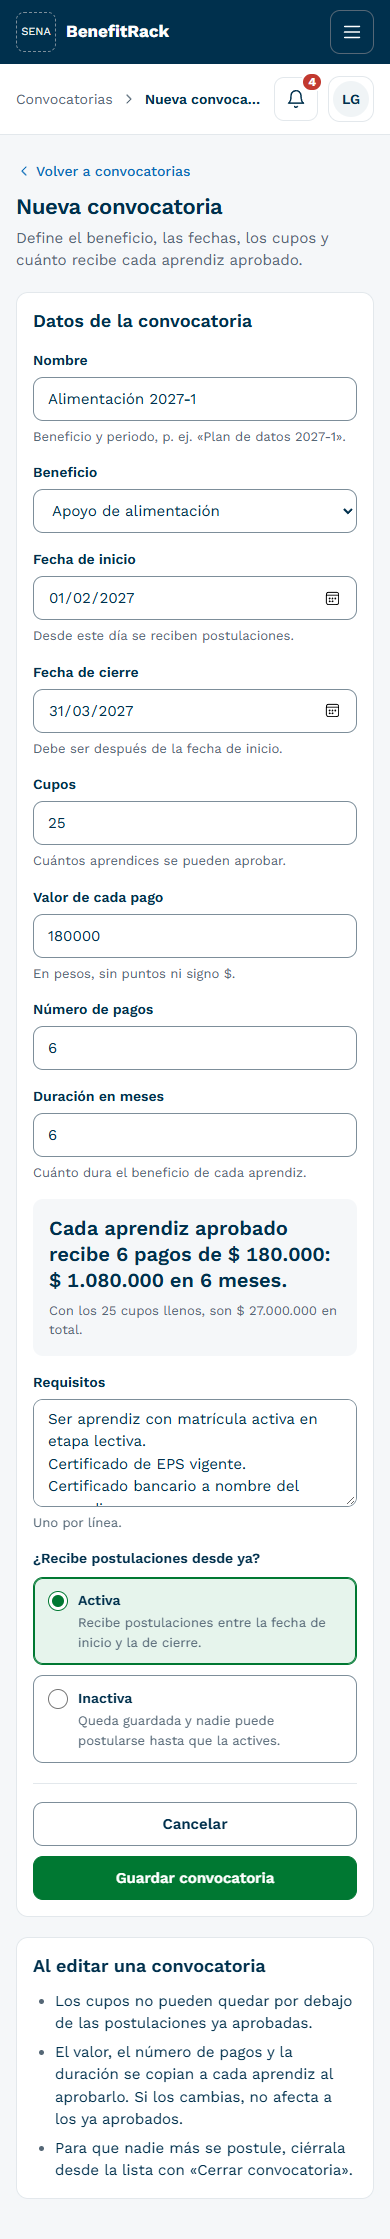
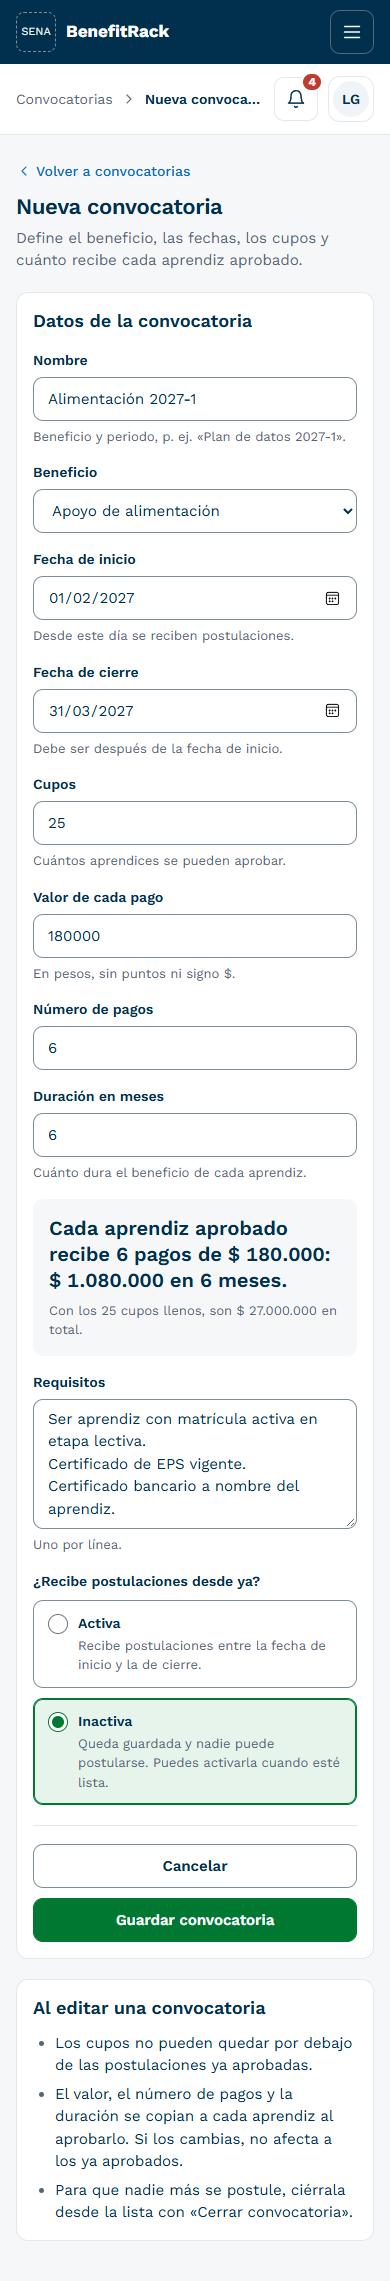
fix: 07-convocatorias marca «Inactiva» como estado inicial (DEFAULT de la base)
Decisión de Samuel. La ayuda de «Inactiva» dice que se puede activar cuando esté
lista. Prueba nueva: Inactiva marcada y Activa no. Requisitos con 5 renglones
para que no se corte el texto en el celular.

diff --git a/vistas/07-convocatorias/html/crear-editar.html b/vistas/07-convocatorias/html/crear-editar.html
@@ -1177,7 +1177,7 @@ a.br-menu-acciones__item { color: var(--br-azul); text-decoration: none; }
             </div>
             <div class="br-campo br-formulario__ancho">
               <label for="requisitos">Requisitos</label>
-              <textarea id="requisitos" name="requisitos" rows="4" required aria-describedby="ayuda-requisitos">Ser aprendiz con matrícula activa en etapa lectiva.
+              <textarea id="requisitos" name="requisitos" rows="5" required aria-describedby="ayuda-requisitos">Ser aprendiz con matrícula activa en etapa lectiva.
 Certificado de EPS vigente.
 Certificado bancario a nombre del aprendiz.</textarea>
               <p class="br-ayuda" id="ayuda-requisitos">Uno por línea.</p>
@@ -1186,14 +1186,14 @@ Certificado bancario a nombre del aprendiz.</textarea>
               <legend>¿Recibe postulaciones desde ya?</legend>
               <div class="br-opciones__lista">
                 <label class="br-opcion">
-                  <input type="radio" name="estado" value="Activa" checked>
+                  <input type="radio" name="estado" value="Activa">
                   <span class="br-opcion__titulo">Activa</span>
                   <span class="br-opcion__ayuda">Recibe postulaciones entre la fecha de inicio y la de cierre.</span>
                 </label>
                 <label class="br-opcion">
-                  <input type="radio" name="estado" value="Inactiva">
+                  <input type="radio" name="estado" value="Inactiva" checked>
                   <span class="br-opcion__titulo">Inactiva</span>
-                  <span class="br-opcion__ayuda">Queda guardada y nadie puede postularse hasta que la actives.</span>
+                  <span class="br-opcion__ayuda">Queda guardada y nadie puede postularse. Puedes activarla cuando esté lista.</span>
                 </label>
               </div>
             </fieldset>

diff --git a/vistas/_fuente/07-convocatorias/crear-editar.html b/vistas/_fuente/07-convocatorias/crear-editar.html
@@ -74,7 +74,7 @@
             </div>
             <div class="br-campo br-formulario__ancho">
               <label for="requisitos">Requisitos</label>
-              <textarea id="requisitos" name="requisitos" rows="4" required aria-describedby="ayuda-requisitos">Ser aprendiz con matrícula activa en etapa lectiva.
+              <textarea id="requisitos" name="requisitos" rows="5" required aria-describedby="ayuda-requisitos">Ser aprendiz con matrícula activa en etapa lectiva.
 Certificado de EPS vigente.
 Certificado bancario a nombre del aprendiz.</textarea>
               <p class="br-ayuda" id="ayuda-requisitos">Uno por línea.</p>
@@ -83,14 +83,14 @@ Certificado bancario a nombre del aprendiz.</textarea>
               <legend>¿Recibe postulaciones desde ya?</legend>
               <div class="br-opciones__lista">
                 <label class="br-opcion">
-                  <input type="radio" name="estado" value="Activa" checked>
+                  <input type="radio" name="estado" value="Activa">
                   <span class="br-opcion__titulo">Activa</span>
                   <span class="br-opcion__ayuda">Recibe postulaciones entre la fecha de inicio y la de cierre.</span>
                 </label>
                 <label class="br-opcion">
-                  <input type="radio" name="estado" value="Inactiva">
+                  <input type="radio" name="estado" value="Inactiva" checked>
                   <span class="br-opcion__titulo">Inactiva</span>
-                  <span class="br-opcion__ayuda">Queda guardada y nadie puede postularse hasta que la actives.</span>
+                  <span class="br-opcion__ayuda">Queda guardada y nadie puede postularse. Puedes activarla cuando esté lista.</span>
                 </label>
               </div>
             </fieldset>

diff --git a/vistas/herramientas/pruebas/07-convocatorias.js b/vistas/herramientas/pruebas/07-convocatorias.js
@@ -236,6 +236,17 @@ module.exports = [
     },
   },
 
+  {
+    estado: 'crear-editar',
+    nombre: 'el estado inicial viene en «Inactiva» (el DEFAULT de la base), no en «Activa»',
+    prueba: async (page) => {
+      const r = await page.$$eval('main form input[type=radio][name=estado]', (rs) =>
+        Object.fromEntries(rs.map((x) => [x.value, x.checked])));
+      exige(r.Inactiva === true, `«Inactiva» no está marcada: ${JSON.stringify(r)}`);
+      exige(r.Activa === false, `«Activa» está marcada: ${JSON.stringify(r)}`);
+    },
+  },
+
   // ---------- Cerrar ----------
   {
     estado: 'cerrar',
